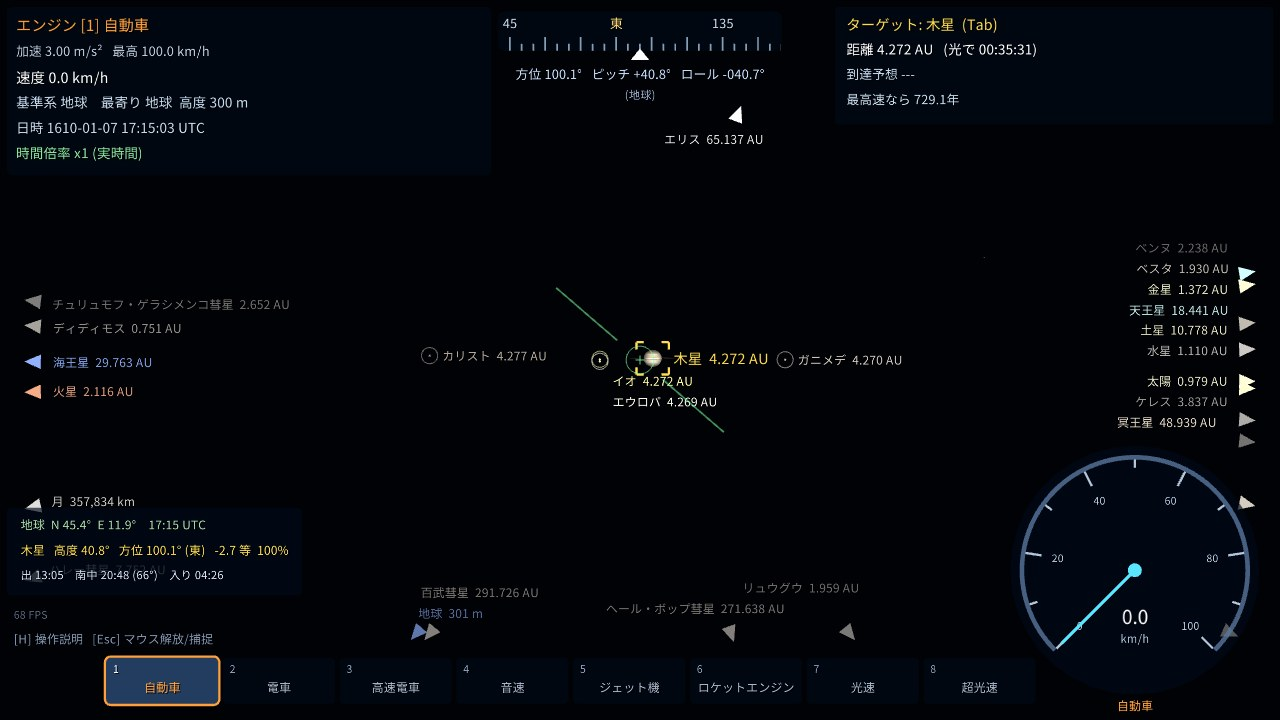
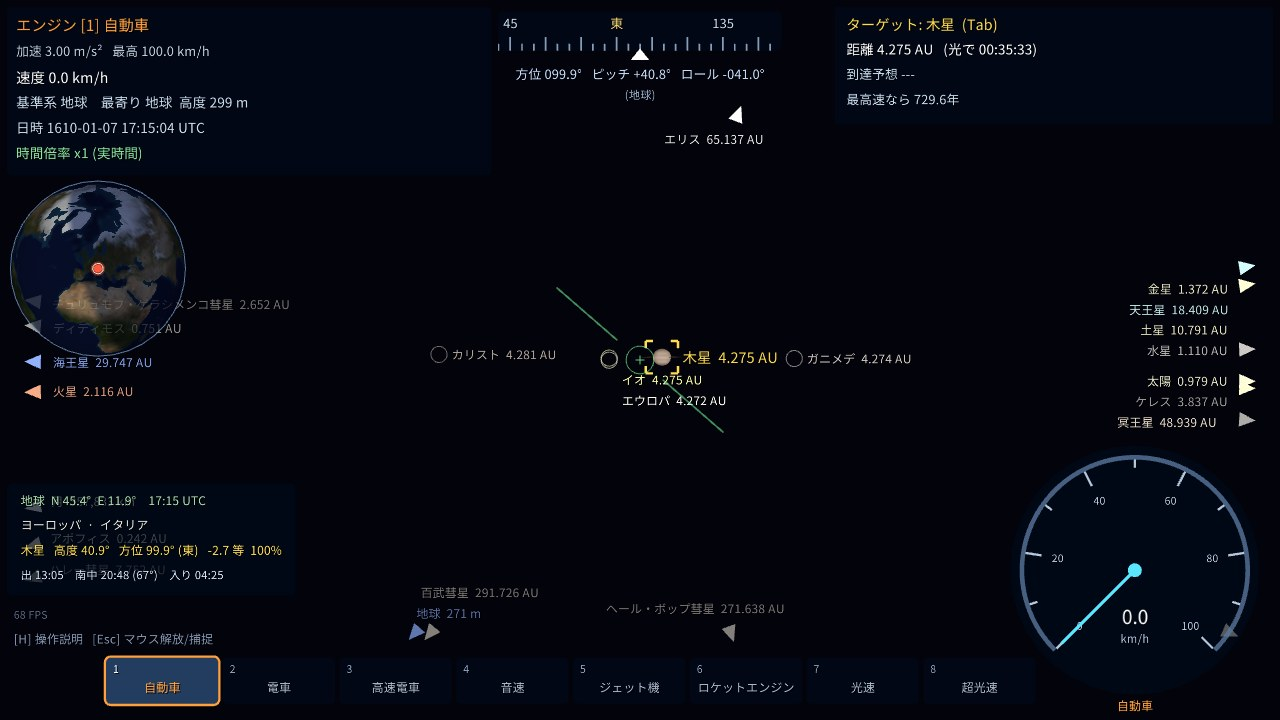
Brighten the night Moon, draw planets by magnitude, limit visible stars by sky brightness and brighten twilight

diff --git a/src/app/hud.h b/src/app/hud.h
@@ -40,7 +40,8 @@ static bool DeepSkyPlace(const App& app, int i, DeepSkyQuad* q, double* D) {
 
 static void DrawDeepSky(const App& app) {
     if (!app.showMilkyWay || app.deepSkyTex.empty()) return;
-    double vis = 1 - SkyDaylight(app);
+    // 天の川・星雲の淡い光（4〜5 等の星と同じくらいの淡さ）は、空が十分暗い時だけ（薄明では消える）
+    double vis = std::max(0.0, std::min(1.0, (LimitingMag(app) - 4.5) / 2.5));
     if (vis < 0.02) return;
     const Cam& c = app.cam;
     rlDrawRenderBatchActive();
@@ -87,13 +88,14 @@ static void DrawStars(const App& app) {
                     if (Project(c, line[i], &p) && Project(c, line[i + 1], &q)) DrawLineEx(p, q, 1.2f, lc);
                 }
     }
-    // 昼の空では見えない（空の色は空気の薄い火星では淡く、それだけでは星が透けて見える。惑星の点・星雲と同じく昼の明るさで消す）
-    double vis = 1 - SkyDaylight(app);
+    // 空が明るいほど暗い星から見えなくなる（目で見える一番暗い等級 LimitingMag。薄明では明るい星だけ、昼は見えない。空の色は
+    // 空気の薄い火星では淡く、それだけでは星が透けて見える）
+    double lim = LimitingMag(app);
     for (const Star& st : app.sky.stars) {
         Vector2 p;
         V3 dir = st.dir;
         Color col = st.col;
-        col.a = (unsigned char)(col.a * vis);
+        col.a = (unsigned char)(col.a * StarVisibility(st.mag, lim));
         if (col.a < 4) continue;
         if (rel.on) {
             double D;
@@ -109,8 +111,10 @@ static void DrawStars(const App& app) {
     for (int k = 0; k < SUPERNOVA_COUNT; k++) {
         double mag = SupernovaMag(k, app.tDays);
         if (std::isnan(mag) || mag > 6.5) continue;
+        double sv = StarVisibility(mag, lim);
+        if (sv <= 0) continue;
         V3 dir = EquToRender(SUPERNOVAE[k].ra, SUPERNOVAE[k].dec);
-        Color col = StarColor(0.1, (unsigned char)StarDotAlpha((float)mag));
+        Color col = StarColor(0.1, (unsigned char)(StarDotAlpha((float)mag) * sv));
         if (rel.on) {
             double D;
             dir = Aberrate(rel, dir, &D);
@@ -121,7 +125,7 @@ static void DrawStars(const App& app) {
         if (mag < 0) {
             BeginBlendMode(BLEND_ADDITIVE);
             float r = (float)(6 - mag * 3) * g_dpiScale;
-            DrawCircleGradient((int)p.x, (int)p.y, r, {235, 240, 255, (unsigned char)std::min(200.0, 40 - mag * 20)}, {200, 215, 255, 0});
+            DrawCircleGradient((int)p.x, (int)p.y, r, {235, 240, 255, (unsigned char)(std::min(200.0, 40 - mag * 20) * sv)}, {200, 215, 255, 0});
             EndBlendMode();
         }
         DrawStarDot(p, std::max(StarDotSize((float)mag), mag < 0 ? 3.6f : 0.0f), col);
@@ -280,6 +284,14 @@ static void DrawCorona(Vector2 c, float rs, float k) {
     EndBlendMode();
 }
 
+// 見え方（明るさ・満ち欠け・見かけの大きさ・月齢。SeenFrom・SeenFromPoint）
+struct Appearance {
+    bool ok = false, here = false;
+    double mag = NAN, k = 0, alpha = 0, size = 0, age = NAN;
+    int moonPhase = -1;
+};
+static Appearance SeenFromPoint(const App& app, int i, V3 O);
+
 // 円盤の縁 r0 から r1 まで外へ薄れる光（加算で描く。中は円盤が隠すので描かない）
 static void DrawGlowRing(Vector2 c, float r0, float r1, Color in, Color out) {
     const int N = 96;
@@ -304,7 +316,7 @@ static void DrawGlowRing(Vector2 c, float r0, float r1, Color in, Color out) {
 
 static void DrawSunGlowAndDots(const App& app) {
     const Cam& c = app.cam;
-    double day = SkyDaylight(app);
+    double day = SkyDaylight(app), lim = LimitingMag(app);
     for (size_t i = 0; i < app.B.size(); i++) {
         const Body& b = app.B[i];
         V3 rel = ViewRel(app, b.pos);   // 光速に近いと天体も背景の星と同じく前方へ集まる
@@ -369,7 +381,7 @@ static void DrawSunGlowAndDots(const App& app) {
             } else if (mag < 8.5f) {
                 // 星空の星と同じ描き方（太陽から見た明るさなら、星表の星と同じ見た目）。昼の空では見えない
                 double bv = b.d.star >= 0 ? NEARBY_STARS[b.d.star].bv : 0.65;
-                float a = StarDotAlpha(mag) * (float)(i == B_SUN ? 1.0 : 1.0 - day);
+                float a = StarDotAlpha(mag) * (float)(i == B_SUN ? 1.0 : StarVisibility(mag, lim));
                 if (a >= 4) DrawStarDot(p, StarDotSize(mag), StarColor(bv, (unsigned char)a));
             }
         } else if (i == B_MOON && px >= 0.8 && !Occluded(app, c.pos, b.pos, (int)i)) {
@@ -396,9 +408,30 @@ static void DrawSunGlowAndDots(const App& app) {
                 EndBlendMode();
             }
         } else if (b.d.probe < 0 && b.outer / Len(rel) * c.focal < 0.8) {
-            Color col = BodyColor(b);   // 昼の空では見えない
-            col.a = (unsigned char)(col.a * (1.0 - day));
-            if (col.a >= 4) DrawCircleV(p, b.d.parent == 0 ? 1.8f : 1.2f, col);
+            Appearance ap = SeenFromPoint(app, (int)i, c.pos);
+            if (!ap.ok || std::isnan(ap.mag)) {   // 明るさの分からない天体（小さな衛星・小惑星など）: 色の点。昼の空では見えない
+                Color col = BodyColor(b);
+                col.a = (unsigned char)(col.a * (1.0 - day));
+                if (col.a >= 4) DrawCircleV(p, b.d.parent == 0 ? 1.8f : 1.2f, col);
+                continue;
+            }
+            // 惑星など: 星と同じく等級で大きさと濃さを決める（金星は −4 等台で空で一番明るい点）。大気の中では地平線に近いほど
+            // 暗く赤く（月と同じ式）、空が明るいほど暗いものから見えなくなる（金星は明るい薄明や昼でも見える）。とても明るい時は
+            // 光がにじむ
+            Col3 T = ViewTransmission(app, b.pos - c.pos), k = ColorThroughAir(T);
+            double mag = ap.mag - 2.5 * std::log10(std::max(T.g, 1e-6f)), v = StarVisibility(mag, lim);
+            if (v <= 0) continue;
+            const Col3& bc = b.d.c1;
+            float m = std::max(bc.r, std::max(bc.g, bc.b));
+            auto ch = [&](float x, float kk) { return (unsigned char)std::min(255.0f, (x / m * 0.55f + 0.45f) * 255 * kk); };
+            Color col = {ch(bc.r, k.r), ch(bc.g, k.g), ch(bc.b, k.b), (unsigned char)(StarDotAlpha((float)mag) * v)};
+            if (mag < -1.5) {
+                BeginBlendMode(BLEND_ADDITIVE);
+                float r = (float)(4 - mag * 2.5) * g_dpiScale;
+                DrawCircleGradient((int)p.x, (int)p.y, r, {col.r, col.g, col.b, (unsigned char)(std::min(160.0, -mag * 30) * v)}, {col.r, col.g, col.b, 0});
+                EndBlendMode();
+            }
+            DrawStarDot(p, std::max(StarDotSize((float)mag), 1.0f), col);
         }
     }
 }
@@ -845,19 +878,12 @@ static void DrawToast(const App& app) {
 // 月・太陽は標準的な式、準惑星・大きな衛星は絶対等級 H から（位相の補正は 0.03 等/度の目安）
 static int GroundBody(const App& app);
 
-struct Appearance {
-    bool ok = false, here = false;
-    double mag = NAN, k = 0, alpha = 0, size = 0, age = NAN;
-    int moonPhase = -1;
-};
 
-static Appearance SeenFrom(const App& app, int i) {
+// 点 O から見た天体 i の見え方（月齢は入れない）
+static Appearance SeenFromPoint(const App& app, int i, V3 O) {
     Appearance a;
-    int g = GroundBody(app);
-    a.here = g >= 0;
-    V3 O = a.here ? ShipWorld(app) : app.B[B_EARTH].pos;
     const Body& b = app.B[i];
-    if (i == g || (!a.here && i == B_EARTH) || b.d.kind == KIND_PROBE) return a;
+    if (b.d.kind == KIND_PROBE) return a;
     V3 T = b.pos, S = app.B[HostStar(app.B, i)].pos;   // 太陽系の外の惑星はその恒星に照らされる
     double delta = Len(T - O), r = Len(T - S);
     if (delta <= b.d.radius) return a;
@@ -900,6 +926,21 @@ static Appearance SeenFrom(const App& app, int i) {
                 if (en == h.en) a.mag = h.H + rd + 0.03 * x;
         }
     }
+    return a;
+}
+
+static Appearance SeenFrom(const App& app, int i) {
+    int g = GroundBody(app);
+    bool here = g >= 0;
+    if (i == g || (!here && i == B_EARTH)) {
+        Appearance a;
+        a.here = here;
+        return a;
+    }
+    Appearance a = SeenFromPoint(app, i, here ? ShipWorld(app) : app.B[B_EARTH].pos);
+    a.here = here;
+    if (!a.ok) return a;
+    V3 T = app.B[i].pos, S = app.B[HostStar(app.B, i)].pos;
     // 月齢: 地球（の上）から見た月と太陽の黄経の差から
     if (i == B_MOON && (!a.here || g == B_EARTH)) {
         V3 e = app.B[B_EARTH].pos, m = T - e, s = S - e;

diff --git a/src/app/render3d.h b/src/app/render3d.h
@@ -1593,6 +1593,44 @@ static double SkyDaylight(const App& app) {
     return std::min(1.0, density * 2.0) * light;
 }
 
+// 天頂の空の明るさ log10(cd/m²) の目安（地球。太陽高度 deg ごと）: 昼 約 4,000、日の入り 約 500、市民薄明の終わり（−6°）約 3、
+// 航海薄明の終わり（−12°）約 0.01、天文薄明の終わり（−18°）約 0.0003（夜空）。値は代表的な観測値からの目安
+static double TwilightLogLum(double sunAltDeg) {
+    static const double H[] = {-18, -15, -12, -9, -6, -3, 0, 10}, L[] = {-3.5, -3.0, -2.0, -0.8, 0.5, 1.6, 2.7, 3.6};
+    const int n = sizeof H / sizeof H[0];
+    if (sunAltDeg <= H[0]) return L[0];
+    if (sunAltDeg >= H[n - 1]) return L[n - 1];
+    int i = 0;
+    while (sunAltDeg > H[i + 1]) i++;
+    return L[i] + (L[i + 1] - L[i]) * (sunAltDeg - H[i]) / (H[i + 1] - H[i]);
+}
+// 目で見える一番暗い等級（点の天体）: 空の明るさ（上の目安。日食で欠けた分は暗く）から。昼 −4 等（金星がやっと）、
+// 日の入り −3.2 等、市民薄明の終わり 0.3 等、航海薄明の終わり 3.5 等、夜は星表の 8.5 等まで（これまでどおりすべて）。
+// 大気の外では制限なし、金星の雲・タイタンのもやの下では何も見えない
+static double LimitingMag(const App& app) {
+    for (const Body& v : app.B)
+        if (const HazeWorld* hw = HazeWorldOf(v.d))
+            if (Len(app.cam.pos - v.pos) < v.d.radius + hw->top) return -30;
+    double density, sunEl;
+    V3 up;
+    if (!CameraAtmosphere(app, &density, &up, &sunEl)) return 99;
+    double logL = TwilightLogLum(std::asin(std::max(-1.0, std::min(1.0, sunEl))) / DEG) +
+                  std::log10(std::max(1.0 - SunCover(app, app.cam.pos), 3e-4));
+    static const double LL[] = {-3.5, -3.0, -2.0, -0.8, 0.5, 1.6, 2.7, 3.6}, M[] = {8.5, 5.2, 3.5, 2.0, 0.3, -1.8, -3.2, -4.0};
+    const int n = sizeof LL / sizeof LL[0];
+    double m = M[0];
+    if (logL >= LL[n - 1]) m = M[n - 1];
+    else if (logL > LL[0]) {
+        int i = 0;
+        while (logL > LL[i + 1]) i++;
+        m = M[i] + (M[i + 1] - M[i]) * (logL - LL[i]) / (LL[i + 1] - LL[i]);
+    }
+    double k = std::min(1.0, density * 2.0);   // 上空ほど空が暗い
+    return k > 0 ? m + (1 - k) * (12 - m) : 99;
+}
+// 等級 mag の点が見える割合（限界より 1 等明るければすべて）
+static double StarVisibility(double mag, double limit) { return std::max(0.0, std::min(1.0, limit - mag)); }
+
 // 明るさの自動調整（露出）: 地表の近くでは、真下の地面に当たる光（直射 + 空の光。シェーダの sunTint・skyL と同じ式、太陽が
 // 真上の時を 1）が弱いほど画面を明るくし、白い物が白く写るようにする（光の -0.7 乗、最大 2.2 倍）。場面の平均で決めると雪原が
 // 灰色に写るので、光の強さで決める。目は明るい夕焼けの空にも合わせるので、太陽高度 2〜12° で弱めて日の入りで 1。宇宙からと夜は 1
@@ -2012,7 +2050,7 @@ static void DrawBodies(App& app) {
             PlanetUniform(app, app.locCamUp, &up, SHADER_UNIFORM_VEC3);
         }
         {   // カメラのいる大気の外の天体（地上から見た月など）: その大気を通して見る
-            float air[4] = {0, 1, 0, 0}, ext[4] = {0, 0, 0, 0};
+            float air[4] = {0, 1, 0, 0}, ext[4] = {0, 0, 0, 0}, night = 0;
             Vector3 beta = {0, 0, 0}, mie = {0, 0, 0}, ozone = {0, 0, 0};
             double density, sunEl;
             V3 u;
@@ -2020,12 +2058,16 @@ static void DrawBodies(App& app) {
                 air[0] = (float)u.x, air[1] = (float)u.y, air[2] = (float)u.z, air[3] = (float)density;
                 ext[0] = a->ext.x, ext[1] = a->ext.y, ext[2] = a->ext.z, ext[3] = (float)(1.0 - SunCover(app, app.cam.pos));
                 beta = a->beta, mie = a->mie, ozone = a->ozone;
+                // 夜の空では目が暗さに慣れ、月はまぶしいほど明るく白く見える（満月の明るさは約 2,500 cd/m²、夜空はその 10 万分の 1
+                // 以下）。昼の空の明るさで見る時より明るく持ち上げる（満月の高地がほぼ白、海は暗く見分けられる。持ち上げ方は目安）
+                night = (float)(1.0 - SkyDaylight(app));
             }
             PlanetUniform(app, app.locThruAir, air, SHADER_UNIFORM_VEC4);
             PlanetUniform(app, app.locThruExt, ext, SHADER_UNIFORM_VEC4);
             PlanetUniform(app, app.locThruBeta, &beta, SHADER_UNIFORM_VEC3);
             PlanetUniform(app, app.locThruMie, &mie, SHADER_UNIFORM_VEC3);
             PlanetUniform(app, app.locThruOzone, &ozone, SHADER_UNIFORM_VEC3);
+            PlanetUniform(app, app.locThruNight, &night, SHADER_UNIFORM_FLOAT);
         }
         int ri = -1;   // 環（RingSets() の番号）
         for (size_t k = 0; k < RingSets().size(); k++)

diff --git a/tools/retake_gallery.py b/tools/retake_gallery.py
@@ -77,6 +77,9 @@ SHOTS = {
     # プロキシマ・ケンタウリ（番号 102）のフレア（明るさが最大の 13:50:12 に撮る）と、プロキシマ・ケンタウリ b の地上（都市 39）
     "red_dwarf_flare": (lambda: ["--frames", "200", "--hours", hours("2026-10-31 13:50:08.667"), "--target", "102", "--warp"], None),
     "proxima_b_ground": (lambda: ["--frames", "200", "--hours", hours("2026-11-05 22:23:09"), "--city", "39"], None),
+    # 歴史上の天文現象（イベント一覧の 4 ページ目。並びは固定）: 1054 年の超新星（明け方）と、ガリレオの見た木星（夕方）
+    "supernova_1054": (lambda: ["--frames", "400", "--events-page", "3", "--goto-event", "5"], None),
+    "galileo_1610": (lambda: ["--frames", "400", "--events-page", "3", "--goto-event", "12"], None),
     "apollo15_undock": (lambda: ["--frames", "400", "--photo", "2", "--share", "?apollo=15&scene=10"], None),
     "apollo15_landing": (lambda: ["--frames", "600", "--photo", "2", "--share", "?apollo=15&scene=12"], None),
     # 深宇宙での船外活動（飛行士がハッチの外に出たところ）

diff --git a/src/app/app_state.h b/src/app/app_state.h
@@ -205,7 +205,7 @@ struct App {
     int locLight = -1, locLightObj = -1, locC1 = -1, locC2 = -1, locAtm = -1, locParams = -1, locDetail = -1;
     int locOcc = -1, locOccN = -1, locSunAng = -1;
     int locAtmBeta = -1, locAtmMie = -1, locAtmOzone = -1, locAtmHaze = -1, locCamUp = -1, locAtmExt = -1, locAtmAlb = -1;
-    int locThruAir = -1, locThruExt = -1, locThruBeta = -1, locThruMie = -1, locThruOzone = -1;
+    int locThruAir = -1, locThruExt = -1, locThruBeta = -1, locThruMie = -1, locThruOzone = -1, locThruNight = -1;
     int locHazeAir = -1, locHazeSky = -1, locHazeBeta = -1;
     Mesh terrainMesh{};                   // 地表近くの地形の格子（頂点は (u, φ)。形はシェーダで作る）
     int locTerrA = -1, locTerrB = -1, locTerrC = -1, locTerrD = -1, locTerrRing = -1, locTerrStep = -1;

diff --git a/src/main.cpp b/src/main.cpp
@@ -453,6 +453,7 @@ int main(int argc, char** argv) {
     app.locThruBeta = PlanetLoc(app, "thruBeta");
     app.locThruMie = PlanetLoc(app, "thruMie");
     app.locThruOzone = PlanetLoc(app, "thruOzone");
+    app.locThruNight = PlanetLoc(app, "thruNight");
     app.locTerrA = PlanetLoc(app, "terrA");
     app.locTerrB = PlanetLoc(app, "terrB");
     app.locTerrC = PlanetLoc(app, "terrC");

diff --git a/README.en.md b/README.en.md
@@ -424,7 +424,7 @@ The values can be changed in the `ENGINES` table in `src/app/bodies.h`. Switchin
 
 ## On-screen display
 
-- **Sky**: inside the atmospheres of Earth and Mars the sky changes with the Sun's height (blue sky, sunrise and sunset colors and twilight on Earth; a butterscotch day and a bluish sunset on Mars). Stars are hidden in daytime, and the sky darkens into black space as you climb. Seen from inside the atmosphere, distant land and sea fade into haze with the color of the sky, and the ground, clouds and sea are lit by redder light when the Sun is low (also visible from space as a reddish band along the terminator). The Moon and the Sun seen from inside the atmosphere are dimmed and reddened by the air along the line of sight (airmass from Kasten & Young 1989, about 38 times the zenith at the horizon), so a rising Moon is dim orange and a low Sun is orange; in daytime the sunlight scattered by the air in front adds to the Moon, which looks pale with its dark side the color of the sky
+- **Sky**: inside the atmospheres of Earth and Mars the sky changes with the Sun's height (blue sky, sunrise and sunset colors and twilight on Earth; a butterscotch day and a bluish sunset on Mars). The faintest magnitude the eye can see follows the brightness of the sky (rough zenith values by solar altitude: about 500 cd/m² at sunset, 3 at the end of civil twilight, 0.01 at the end of nautical twilight), so the brightest stars come out first in twilight and stars are hidden in daytime. Planets shine as points with the brightness of their magnitude (Mallama & Hilton 2018), like stars, and Venus shows even in bright twilight. The sky darkens into black space as you climb. Seen from inside the atmosphere, distant land and sea fade into haze with the color of the sky, and the ground, clouds and sea are lit by redder light when the Sun is low (also visible from space as a reddish band along the terminator). The Moon and the Sun seen from inside the atmosphere are dimmed and reddened by the air along the line of sight (airmass from Kasten & Young 1989, about 38 times the zenith at the horizon), so a rising Moon is dim orange and a low Sun is orange; in daytime the sunlight scattered by the air in front adds to the Moon, which looks pale with its dark side the color of the sky
 - **Nearby stars**: the 15 stars and brown dwarfs within about 10 light-years (Alpha Centauri A and B, Proxima Centauri, Barnard's Star, Luhman 16 A and B, WISE 0855−0714, Wolf 359, Lalande 21185, Sirius A and B, BL Ceti and UV Ceti, Ross 154, Epsilon Eridani) and 12 notable stars out to about 17 light-years (Procyon A and B, 61 Cygni A and B, Ross 128, Tau Ceti, Epsilon Indi A, Teegarden's Star, 40 Eridani A, B and C, Altair) are placed at their real positions and sizes, colored by their surface temperature. Positions follow straight-line motion from the parallaxes, proper motions and radial velocities of Gaia DR3, Hipparcos and other sources (so the stars move over the centuries), and the binaries (Alpha Centauri, Sirius, BL/UV Ceti, Luhman 16, Procyon) orbit their barycenters with published orbital elements ; 40 Eridani B and C follow the orbit of Mason et al. (2017) too ; 61 Cygni A and B follow the orbit of Shakht et al. (2017; period 664 years), checked against the positions measured by Hipparcos and Gaia. Altair is flattened by its fast spin, and gravity darkening makes its poles hot, white and bright and its equator warmer in color and darker. From afar they look like the other stars of the sky, as points as bright as their magnitude; from Alpha Centauri the Sun is a magnitude 0.5 star in Cassiopeia. These stars are removed from the background sky. Red dwarfs have large starspots reaching high latitudes, and the flare stars (Proxima Centauri, UV and BL Ceti, Wolf 359, Ross 154, 40 Eridani C) now and then brighten by up to about 3 magnitudes for a few minutes, with a blue-white patch on the surface (more often than in reality). The white dwarfs (Sirius B, Procyon B, 40 Eridani B) are smooth and glow an intense blue-white. The brown dwarfs (Luhman 16 A and B, WISE 0855−0714) have Jupiter-like cloud bands and the patchy clouds known from their brightness variations. Pick them in the "Stars" tab of the search and warp there; warps farther than about 1,900 AU get a longer, bigger interstellar warp (the sky crowds forward and turns blue, and you pass through a swirling tunnel of light, with the distance left and how many years light would take). The info card also tells how many years ago the light you see left the star. Masses, radii and some other values of the brown dwarfs are estimates and are marked as such on the info card. The spin axes are unknown, so binaries spin perpendicular to their orbits and the others toward the celestial pole
 - **Planets of other stars**: the 17 confirmed planets (Proxima Centauri b and d, Barnard's Star b to e, Lalande 21185 b and c, Epsilon Eridani b, Ross 128 b, Tau Ceti g, h and f, Epsilon Indi A b, Teegarden's Star b, c and d) orbit their stars at their current positions from the orbital elements (period, eccentricity, time of periastron) of the NASA Exoplanet Archive, lit by their own star. For planets found only by radial velocity the orbital tilt is unknown, so it is taken as 60° (planets of the same star share one plane), the mass is derived from the minimum mass and the radius from the mass (Epsilon Eridani b has its tilt and true mass from astrometry, Epsilon Indi A b from JWST imaging). For planets without a time of periastron in the archive (Ross 128 b and the planets of Tau Ceti and Teegarden's Star) the position along the orbit is an estimate too. Their surfaces are unknown and painted by type and temperature; planets with periods under 30 days always keep the same face to their star. From the "Surface" search tab you can stand on Proxima Centauri b, where the red star hangs still in the sky (the surface is an artist's impression, as the panel says). The info card shows the equilibrium temperature and which values are estimates, and the "Stars" tab of the search lists them. A system map centered on a star shows the habitable zone, where water could be liquid, as a green band (from the star's luminosity, a conservative range after Kopparapu et al. 2013), with distances from the center drawn true rather than projected
 - **Star epoch**: the "Star epoch" setting moves only the stars and the background sky to where they will be (or were) up to 100,000 years from now (the date of the planets stays; dates can be set for 3000 BC to AD 2999, where the planet positions can be computed). The background stars move at constant speed with the proper motions of the Hipparcos new reduction (radial velocities are not included), so constellations such as the Big Dipper fall apart; the nearby stars move too, and in about 30,000 years Alpha Centauri comes within a little over 3 light-years. The setting is shown next to the date while it is on

diff --git a/CHANGELOG.md b/CHANGELOG.md
@@ -4,6 +4,14 @@
 
 リリースの時は、その版の項目が GitHub のリリースノートにも載ります。
 
+## 2.75.0 (2026-11-28)
+
+- 大気の中から見た夜空の月を明るくした。暗い空では目が暗さに慣れるので、空が暗いほど明るく持ち上げる（暗い所は約 2.7 倍、明るい所はなめらかに 1 へ。白く飛ばさず、月の海は見分けられる）。2.74.0 では昼の空で見るのと同じ明るさで、満月が灰色に見えていた
+- 惑星などを、星と同じく等級（Mallama & Hilton 2018 の式）に応じた大きさと濃さの点で描くようにした。金星・木星のように −1.5 等より明るいものには光がにじむ。大気の中では地平線に近いほど暗く赤くなる。これまでは明るさによらず同じ大きさの点で、明けの明星の金星も周りの星と見分けられなかった
+- 空の明るさ（太陽高度ごとの天頂の明るさの目安。日の入り 約 500 cd/m²、市民薄明の終わり 約 3、航海薄明の終わり 約 0.01、天文薄明の終わり 約 0.0003）から目で見える一番暗い等級を決め、星・惑星・天の川・超新星をそれより暗いものから見えなくした（日の入り −3.2 等、市民薄明の終わり 0.3 等、航海薄明の終わり 3.5 等、夜は今までどおり 8.5 等まで、昼は −4 等）。薄明では明るい星から順に現れ、金星は明るい薄明や昼の空でも見える。皆既日食の間は空が暗くなり、明るい惑星や星が見える。これまでは空の明るさに合わせてすべての星が一様に薄れていた
+- 明け方・夕方の空の明るさを、空の明るさの目安の対数で決めるようにした（目は明るさの比で感じる）。これまでは太陽高度 −10° より下でほぼ真っ黒だった。太陽が地平線より上の空は変わらない
+- README の画像（地上から見た 2027 年の皆既日食、1054 年の超新星、1610 年のガリレオ）を撮り直し、README の「空」の項に見える等級と惑星の光り方を足した
+
 ## 2.74.0 (2026-11-28)
 
 - 太陽の表面を、宇宙から見た色（5,772 K の黒体の色。わずかに暖かい白）にした。これまでは地上で見るようなオレンジ色だった。太陽型の星と赤色矮星の表面も、その星の温度の黒体の色になる

diff --git a/CHANGELOG.en.md b/CHANGELOG.en.md
@@ -4,6 +4,14 @@
 
 The release workflow copies the section of the version being released into the GitHub release notes.
 
+## 2.75.0 (2026-11-28)
+
+- The Moon in the night sky seen from inside the atmosphere is brighter. The eye adapts to the dark, so the darker the sky, the more it is lifted (about 2.7 times in dark areas, easing to 1 in bright ones, without blowing out to white; the maria stay visible). In 2.74.0 it had the brightness of a daytime view and the full Moon looked grey
+- Planets and similar bodies are drawn as points whose size and intensity follow their magnitude (Mallama & Hilton 2018), like stars; those brighter than magnitude -1.5, such as Venus and Jupiter, have a glow, and inside an atmosphere they dim and redden toward the horizon. Before, they were points of one size regardless of brightness, and the morning star Venus could not be told from the stars around it
+- The faintest magnitude the eye can see now follows the brightness of the sky (rough zenith values by solar altitude: about 500 cd/m² at sunset, 3 at the end of civil twilight, 0.01 at the end of nautical twilight, 0.0003 at the end of astronomical twilight), and stars, planets, the Milky Way and supernovae fainter than that are hidden (-3.2 at sunset, 0.3 at the end of civil twilight, 3.5 at the end of nautical twilight, 8.5 at night as before, -4 in daytime). In twilight the brightest stars come out first, Venus shows even in bright twilight and in the daytime sky, and during a total solar eclipse the sky darkens enough to show bright planets and stars. Before, all stars faded together with the sky brightness
+- The brightness of the twilight sky now follows the logarithm of the rough sky brightness (the eye responds to ratios). Before, the sky was almost black once the Sun was more than 10° below the horizon. The sky with the Sun above the horizon is unchanged
+- The README images of the 2027 total solar eclipse from the ground, the supernova of 1054 and Galileo in 1610 were retaken, and the README's sky section describes the visible magnitude and how planets shine
+
 ## 2.74.0 (2026-11-28)
 
 - The Sun's surface now has the color seen from space (a 5,772 K blackbody, a slightly warm white) instead of the orange seen from the ground. Sun-like stars and red dwarfs also get the blackbody color of their temperature
